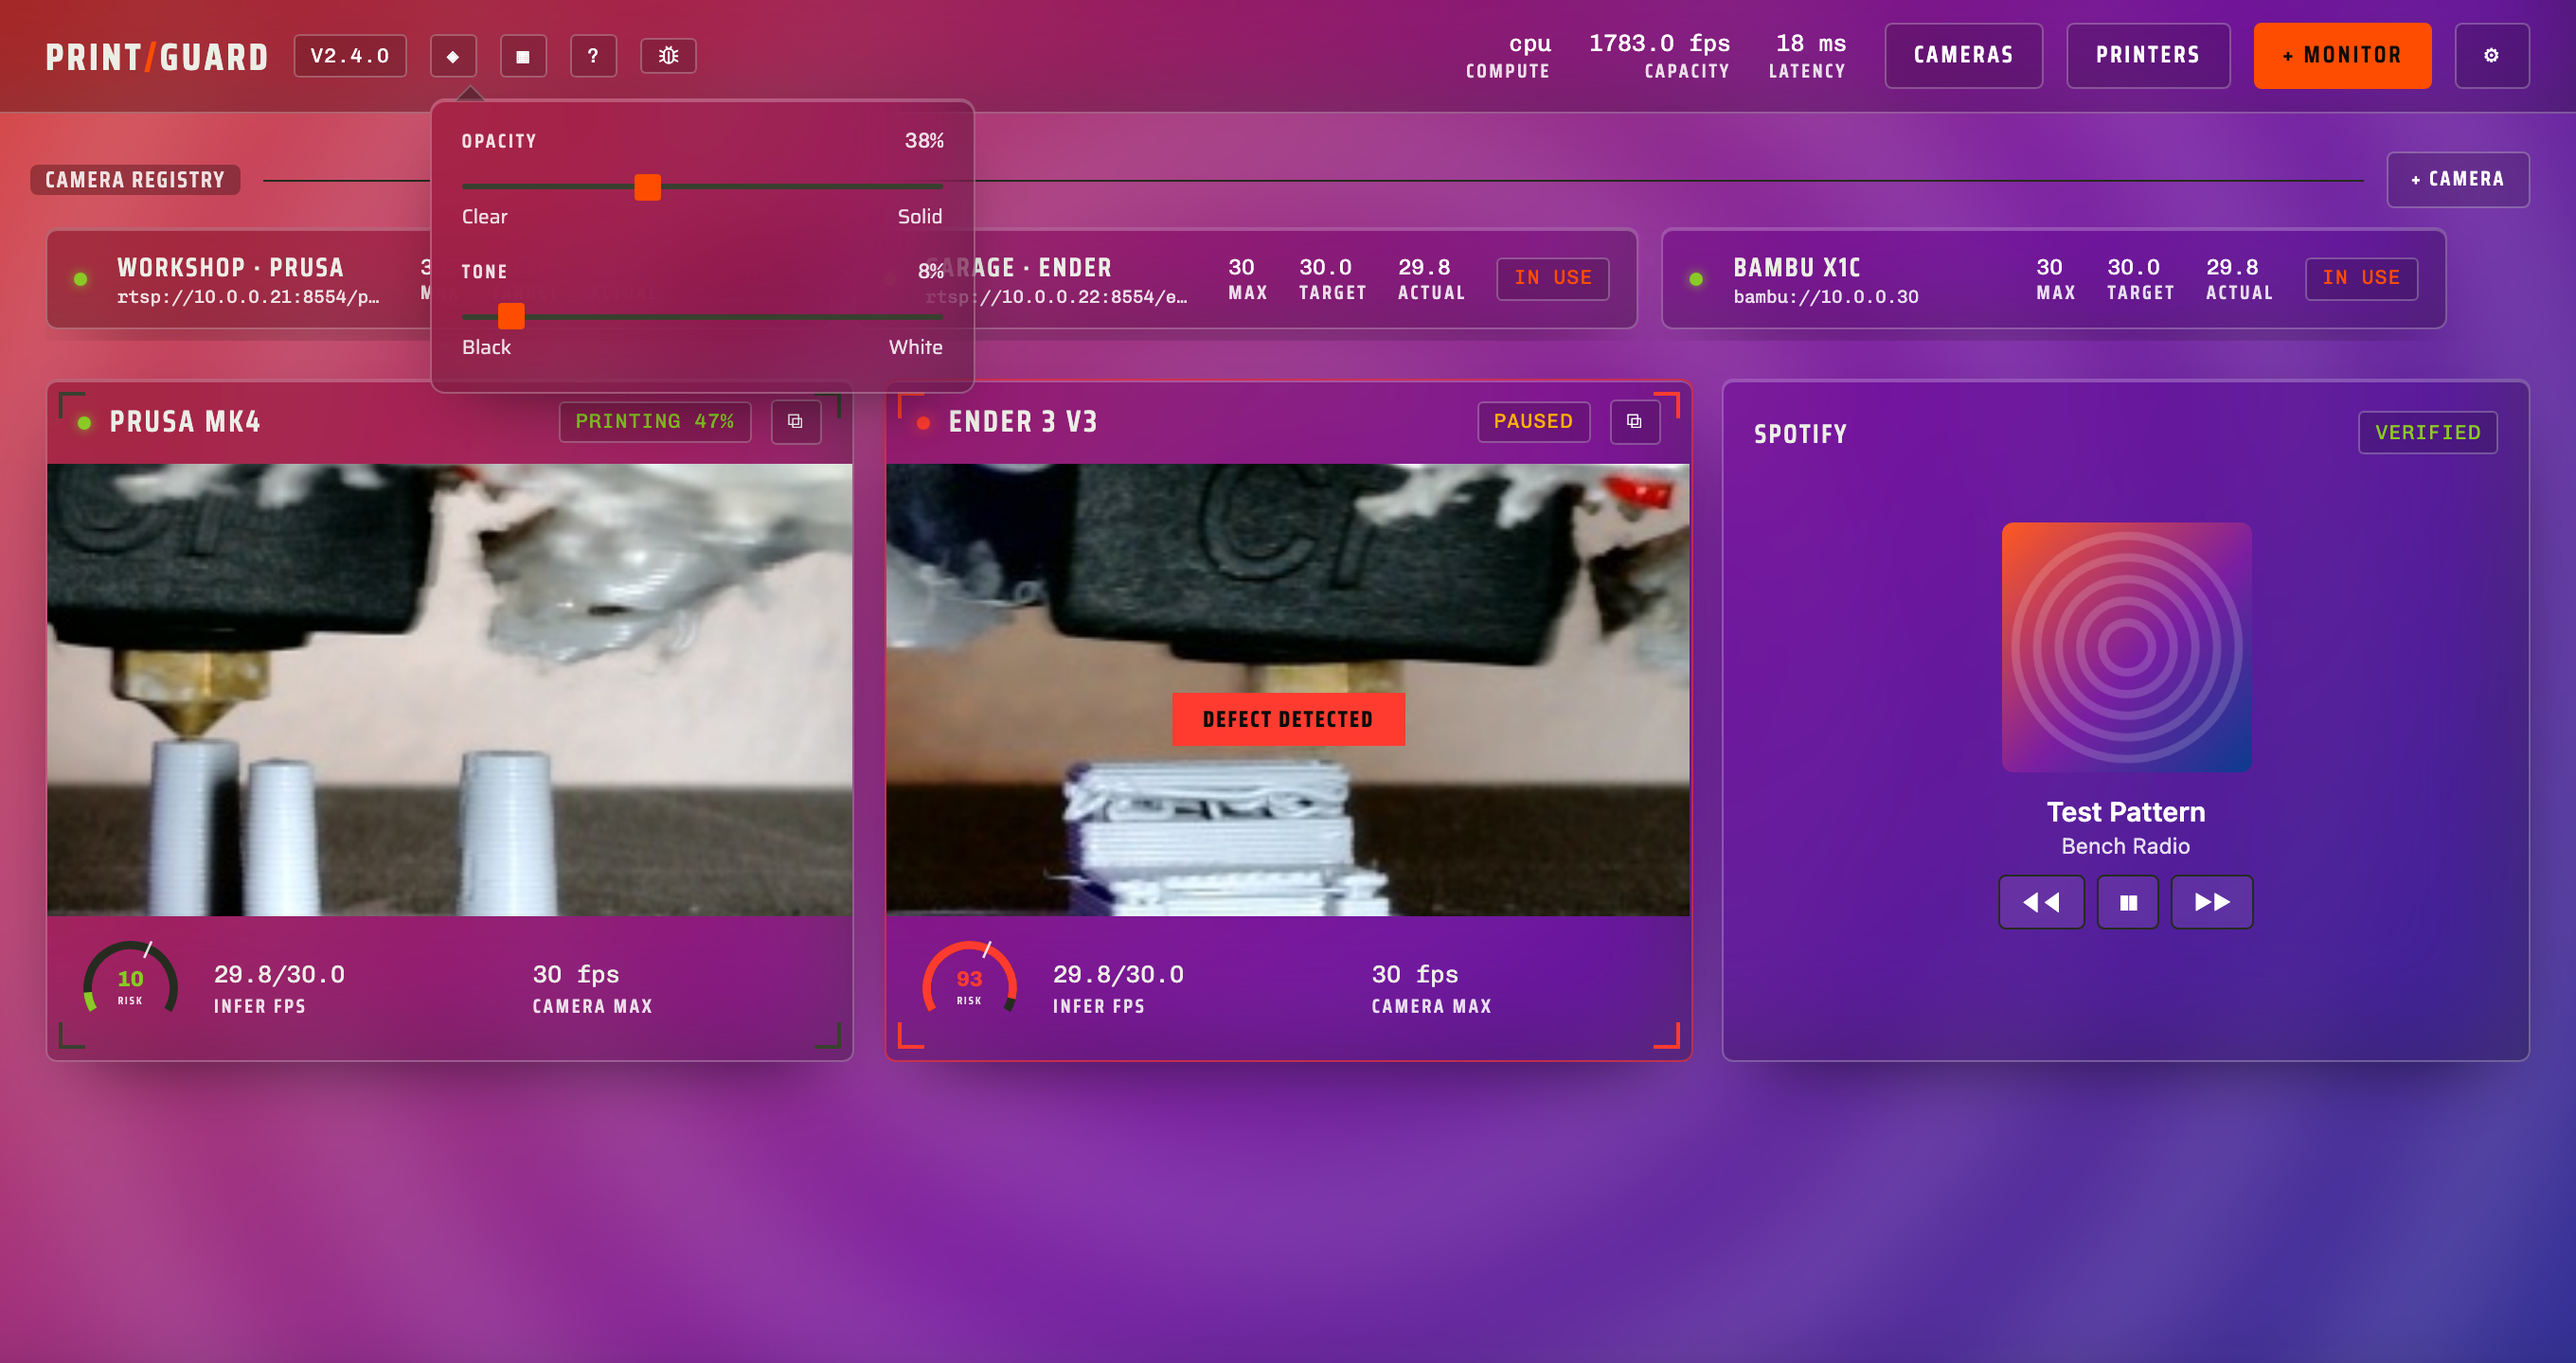
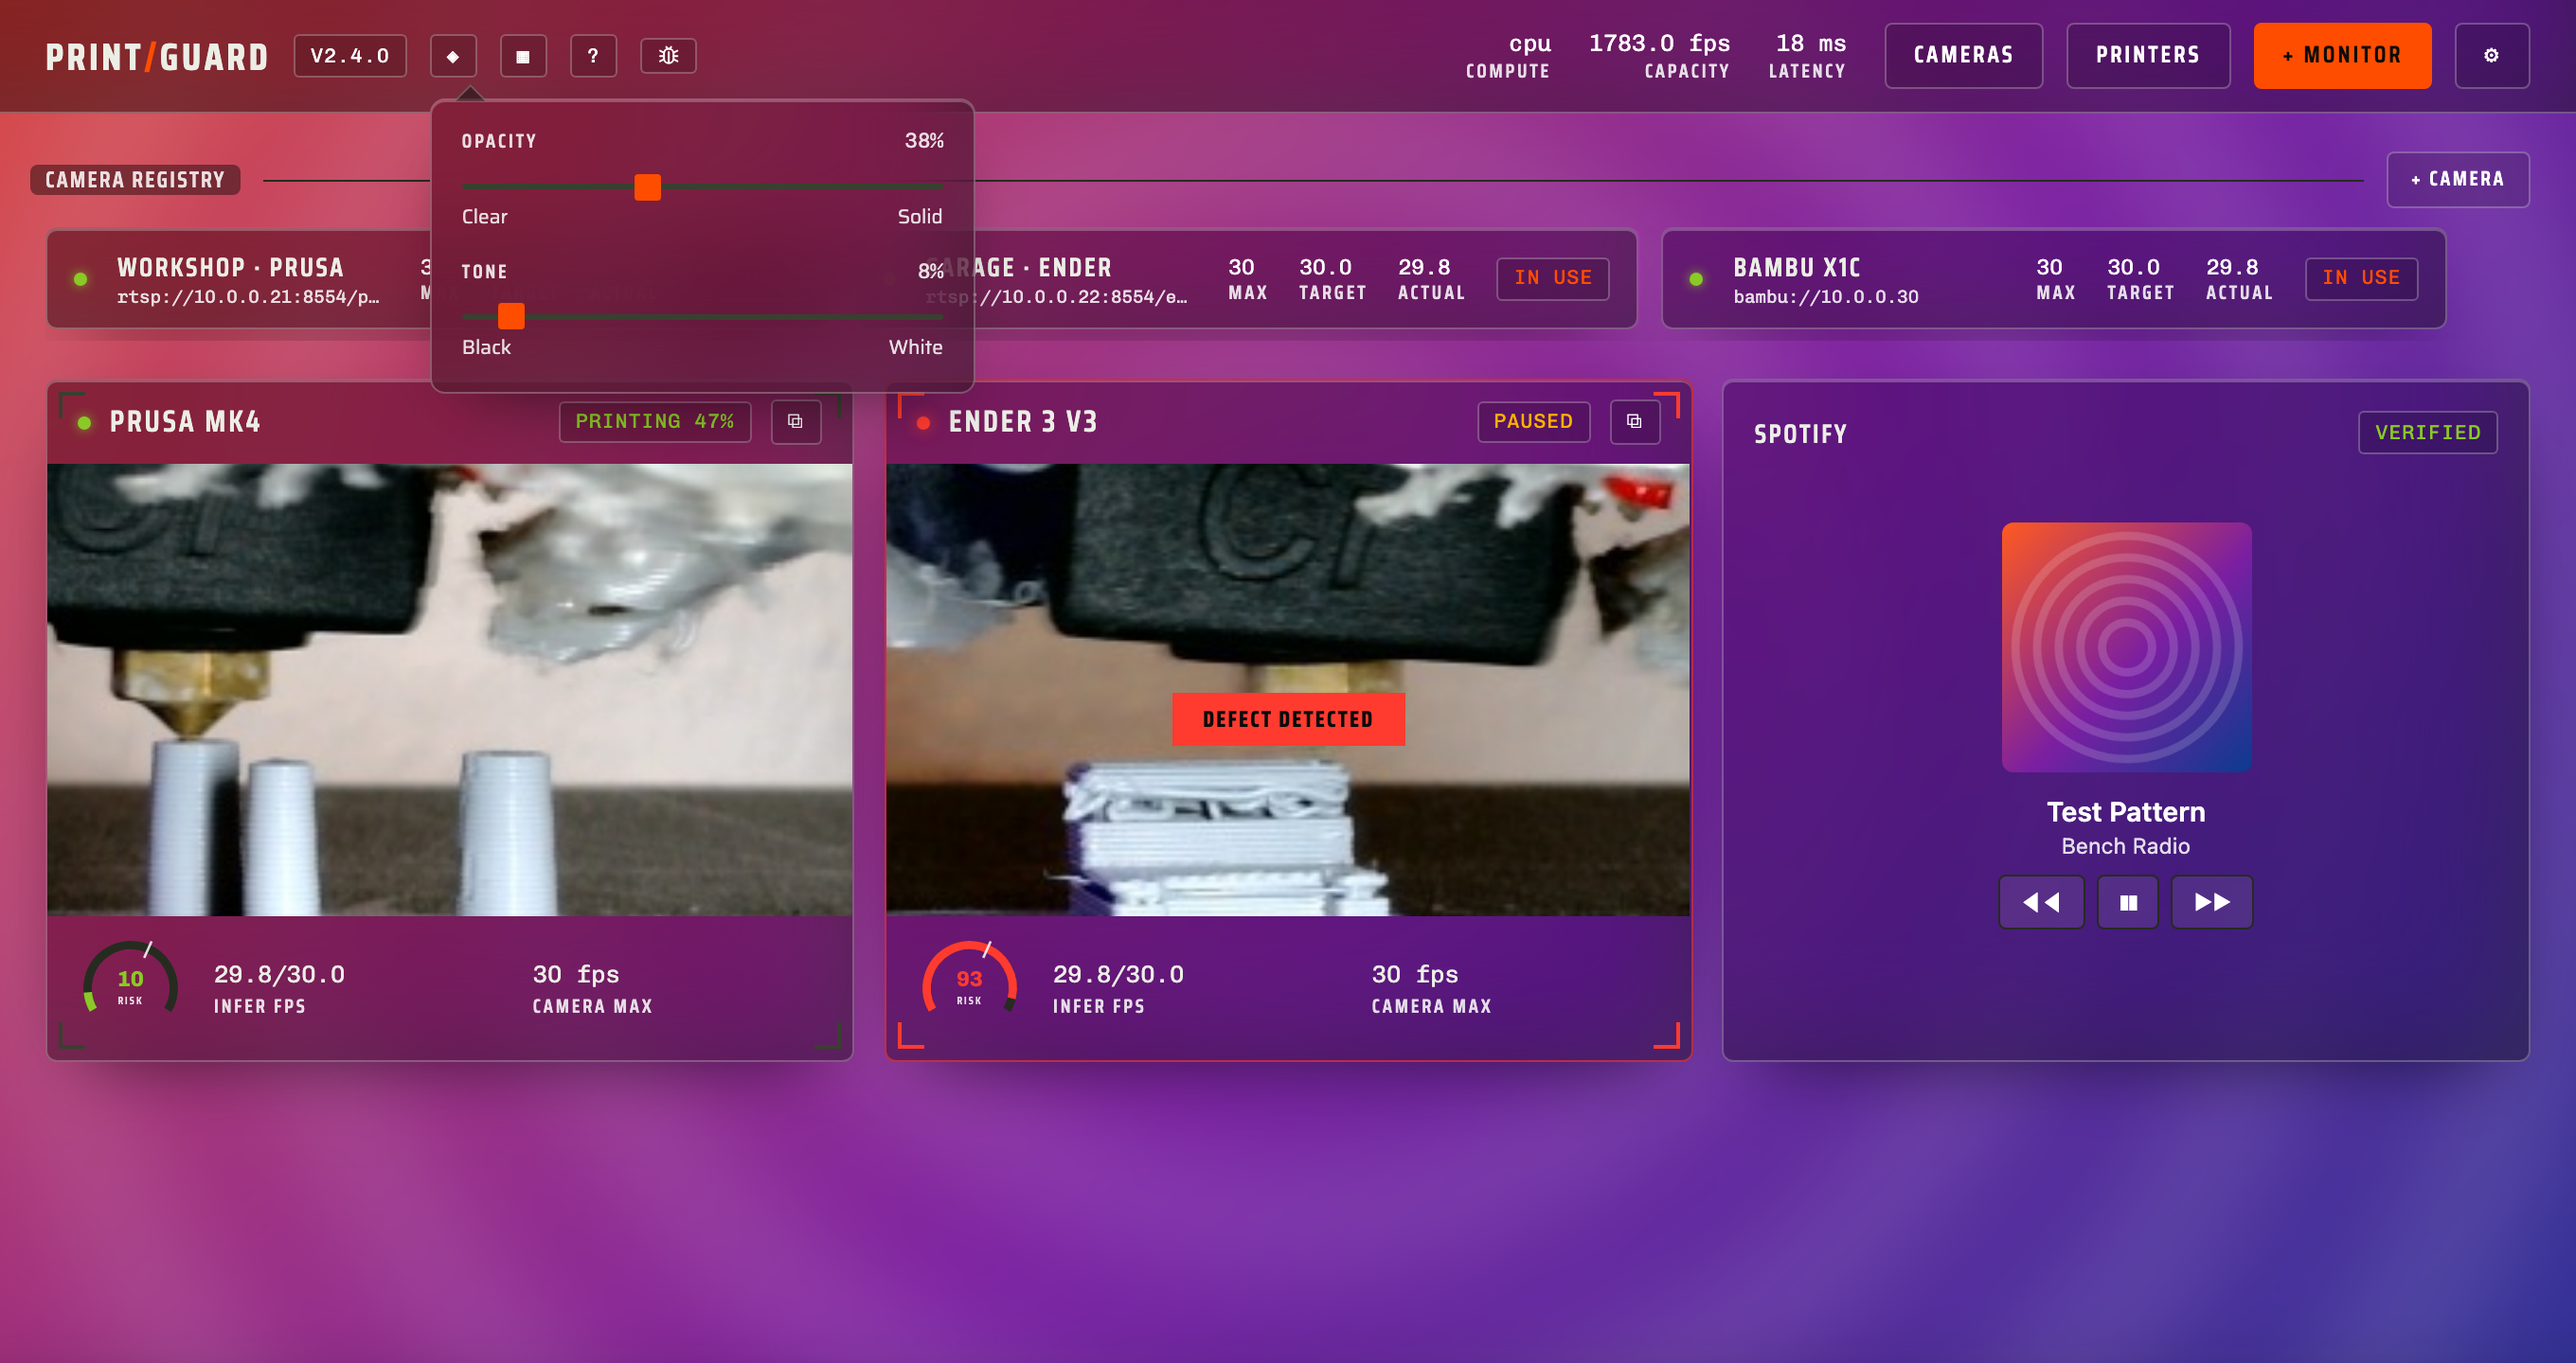
Match the scrim and the inner cards to the glass, not the dark theme

diff --git a/web/src/styles.css b/web/src/styles.css
@@ -117,18 +117,30 @@ body {
   --painted-glass: blur(30px) saturate(180%);
   --painted-ink: var(--glass-ink, #ffffff);
   --painted-muted: var(--glass-muted, rgb(255 255 255 / 0.85));
-  --painted-wash: var(--glass-wash, rgb(0 0 0 / 0.16));
+  --painted-contrast: var(--glass-contrast, rgb(0 0 0));
+  --painted-wash: color-mix(in srgb, var(--painted-contrast) 16%, transparent);
+  --painted-scrim: color-mix(in srgb, var(--painted-contrast) 72%, transparent);
   --painted-edge: color-mix(in srgb, var(--painted-ink) 26%, transparent);
   --painted-sheen: inset 0 1px 0 color-mix(in srgb, var(--painted-ink) 24%, transparent);
   --theme-text-0: var(--color-text-0);
   --theme-text-1: var(--color-text-1);
   --theme-text-2: var(--color-text-2);
+  --theme-ink-1: var(--color-ink-1);
+  --theme-ink-2: var(--color-ink-2);
+  --theme-ink-3: var(--color-ink-3);
 }
 
 :root[data-glass] body {
   --color-text-0: var(--painted-ink);
   --color-text-1: var(--painted-ink);
   --color-text-2: var(--painted-muted);
+  --color-ink-1: color-mix(in srgb, var(--painted-contrast) 12%, transparent);
+  --color-ink-2: color-mix(in srgb, var(--painted-contrast) 8%, transparent);
+  --color-ink-3: color-mix(in srgb, var(--painted-contrast) 20%, transparent);
+}
+
+:root[data-glass] dialog.modal::backdrop {
+  background: var(--painted-scrim);
 }
 
 :root[data-glass] .panel,
@@ -198,6 +210,9 @@ body {
     --color-text-0: var(--theme-text-0);
     --color-text-1: var(--theme-text-1);
     --color-text-2: var(--theme-text-2);
+    --color-ink-1: var(--theme-ink-1);
+    --color-ink-2: var(--theme-ink-2);
+    --color-ink-3: var(--theme-ink-3);
   }
 }
 
